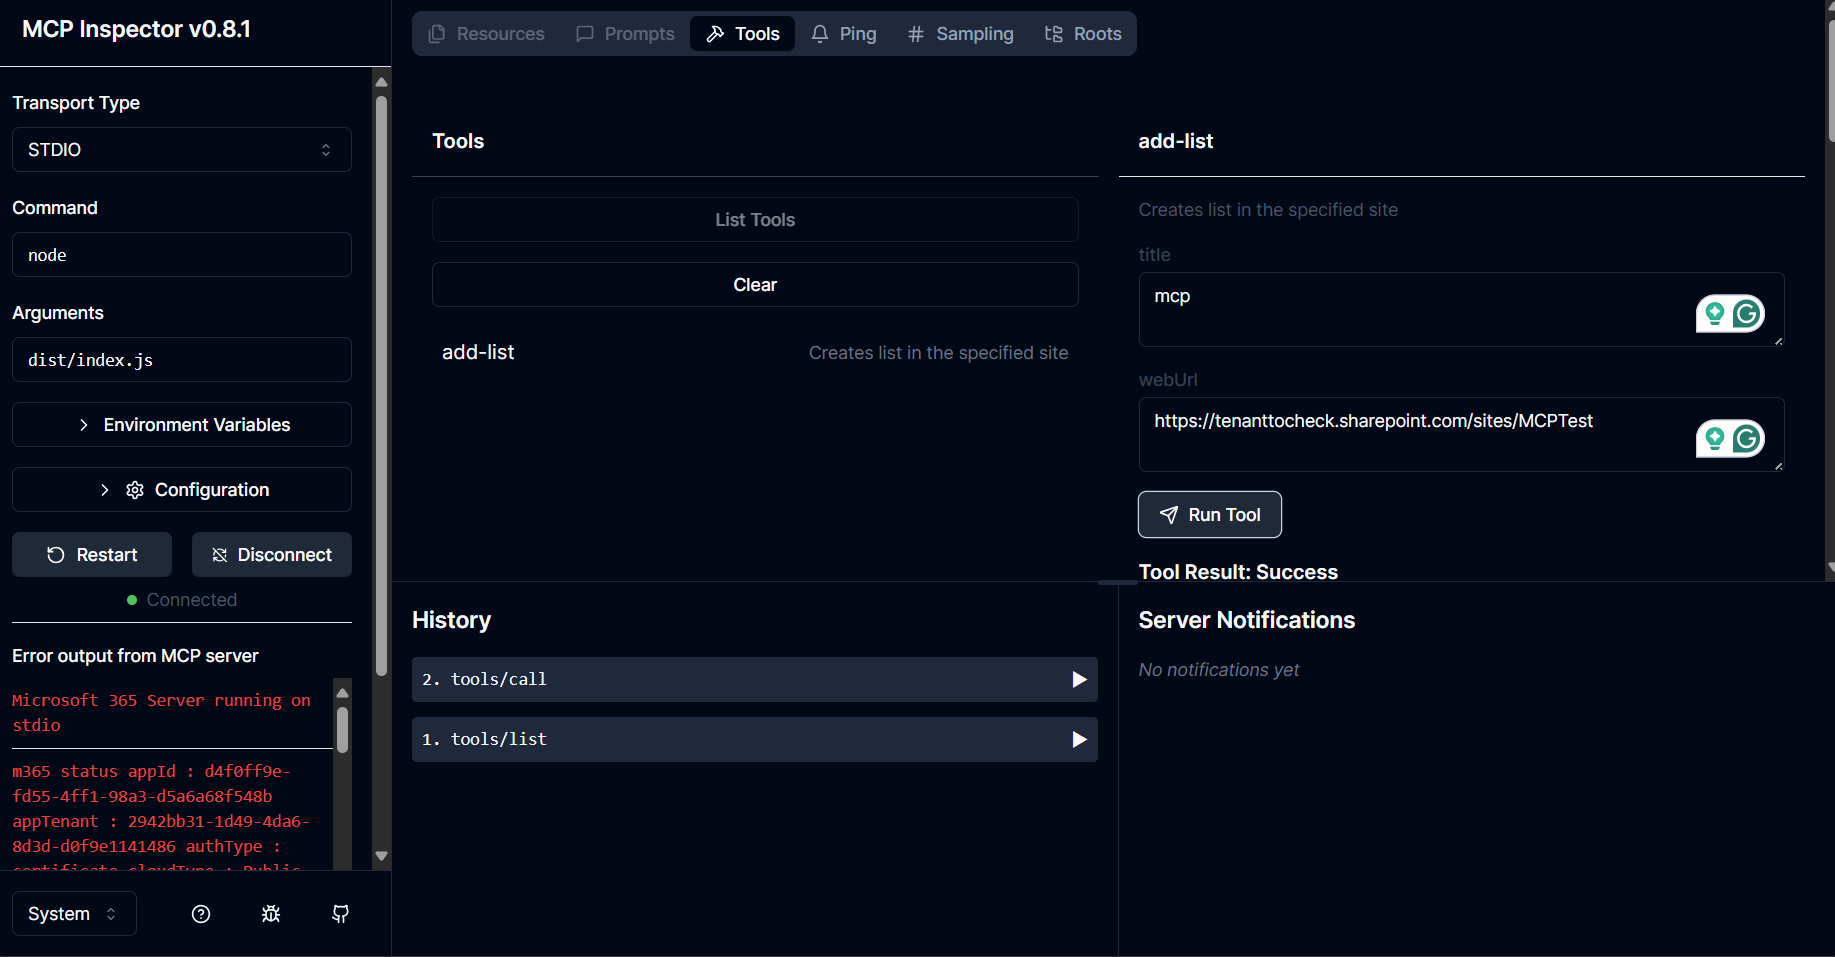
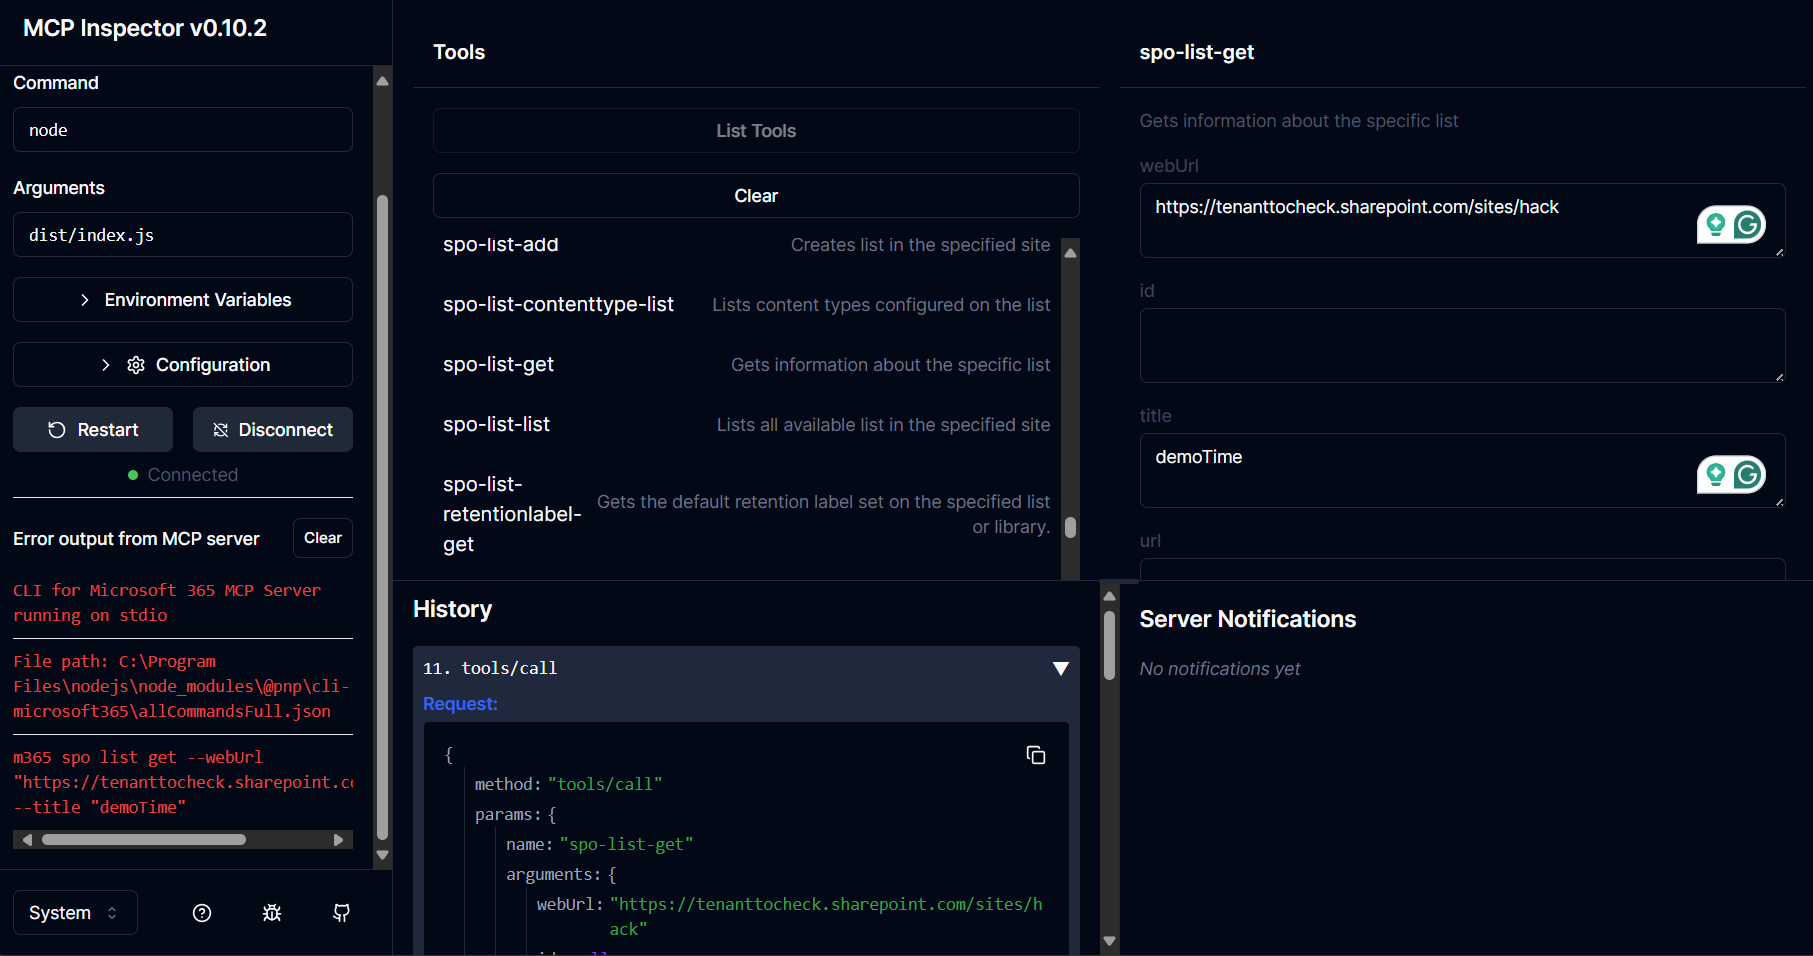
fixup

diff --git a/README.md b/README.md
@@ -1,11 +1,8 @@
-// TODO: refactor
-
-# Microsoft 365 MCP Server
+# CLI for Microsoft 365 MCP Server
 
 ## 💡 Description
 
 Currently this is a work in progress and more POC than a solution. 
-The goal is to create a MCP server that will allow to run any kind of CLI for Microsoft 365 command.
 
 ## 📦 Prerequisites
 
@@ -21,21 +18,23 @@ Then in order to build the project run:
 npm run build
 ```
 
-In order to test this tool you will need to create a Entra app req and a certificate so that this MCP server can authenticate against Microsoft 365 as an app. In order to create a certificate and the app req with needed scopes and added it to your tenant along with the certificate runt the `createApp.ps1` script and follow along the instructions. Most of the things you may leave empty when creating the cert except the password. The password is needed. As the script uses [CLI for Microsoft 365](https://pnp.github.io/cli-microsoft365) to create the app req and other stuff you will first need to install CLI for Microsoft 365 globally using `npm i -g @pnp/cli-microsoft365` and sign in to your tenant as admin. After you executed the script you should see a 'MCP Server Test' app reg on your Entra ID with the needed scopes and certificate. You should also see the certificate file and the exported base64 encoded certificate in the `temp` folder. YOu will need them later.
+This MCP server uses the globally installed [CLI for Microsoft 365](https://pnp.github.io/cli-microsoft365) that you need to install globally using `npm i -g @pnp/cli-microsoft365`.
+
+The MCP server will not do any authentication for you. You will need to first authenticate using CLI for Microsoft 365 using the `m365 login` command. Once you are authenticated the MCP server will use the same authentication context when running any tool.
 
 ### Running MCP using the inspector
 
-One of the ways to test the M365 MCP server is using the [MCP Inspector](https://github.com/modelcontextprotocol/inspector). 
-First start the M365 MCP server using the command:
+One of the ways to test the CLI for Microsoft 365 MCP server is using the [MCP Inspector](https://github.com/modelcontextprotocol/inspector). 
+First start the MCP server using the command:
 
 ```
 npm run start
 ```
 
-Now in order to run the inspector for your MCP server also passing down the needed parameters as environment so that the MCP server may pick them up and use them to authenticate against Microsoft 365 you can run the following command:
+Now in order to run the inspector for your MCP server you need run the following command in the repo root folder location:
 
 ```
-npx @modelcontextprotocol/inspector -e CertificatePassword='YOUR_PASSOWRD' -e AppId='ENTRA_APP_REG_ID' -e TenantId='TENANT_ID' -e TenantUrl='TENANT_URL' -e CertificateBase64Encoded='BASE64_ENCODED_VALUE_OF_YOUR_CERT' node dist/index.js
+npx @modelcontextprotocol/inspector node dist/index.js
 ```
 
 After that wait for the inspector to start and open the inspector in your browser. You should see the MCP server running and you should be able to query the tools and execute them locally.
@@ -45,8 +44,7 @@ After that wait for the inspector to start and open the inspector in your browse
 ### Running MCP in VS Code
 
 It is also possible to run the MCP server in VS Code from your local build so that it may be used by GitHub Copilot Agent.
-As of now this is only supported in VS Code Insiders.
-First start the M365 MCP server using the command:
+First start the CLI for Microsoft 365 MCP server using the command:
 
 ```
 npm run start
@@ -68,26 +66,15 @@ Click enter and name it how ever you like. It is recommended to add it to `works
             "command": "node",
             "args": [
                 "FULL_PATH_TO_YOUR_PROJECT/dist/index.js" // e.g. C:/workspace/repo/microsoft-365-mcp-server/dist/index.js
-            ],
-            "env": {
-                "CertificateBase64Encoded": "BASE64_ENCODED_VALUE_OF_YOUR_CERT",
-                "CertificatePassword": "YOUR_PASSOWRD",
-                "AppId": "ENTRA_APP_REG_ID",
-                "TenantId": "TENANT_ID",
-                "TenantUrl": "TENANT_URL" // e.g. https://tenanttocheck.sharepoint.com/
-            }
+            ]
         }
     }
 }
 ```
 
-Click on start and you should see 4 new tools added to your GitHub Copilot Agent. Test them out.
+Click on start and you should see 358 new tools added to your GitHub Copilot Agent. Test them out. It is recommended to use `Claude 3.5 Sonnet` as the AI model for the best results.
 
 ![vs code](assets/mcp-vs-code.png)
-
-## 🎬 Demo
-
-👉 [Movie 🎬](https://1drv.ms/v/c/e82bbd5e6a08f219/ERGiLDUdw7VKi6Z01S_HTdkBPalukte7lJyiseIauFd2QA?e=gVezUZ)
 
 ## 🔗 Resources
 
